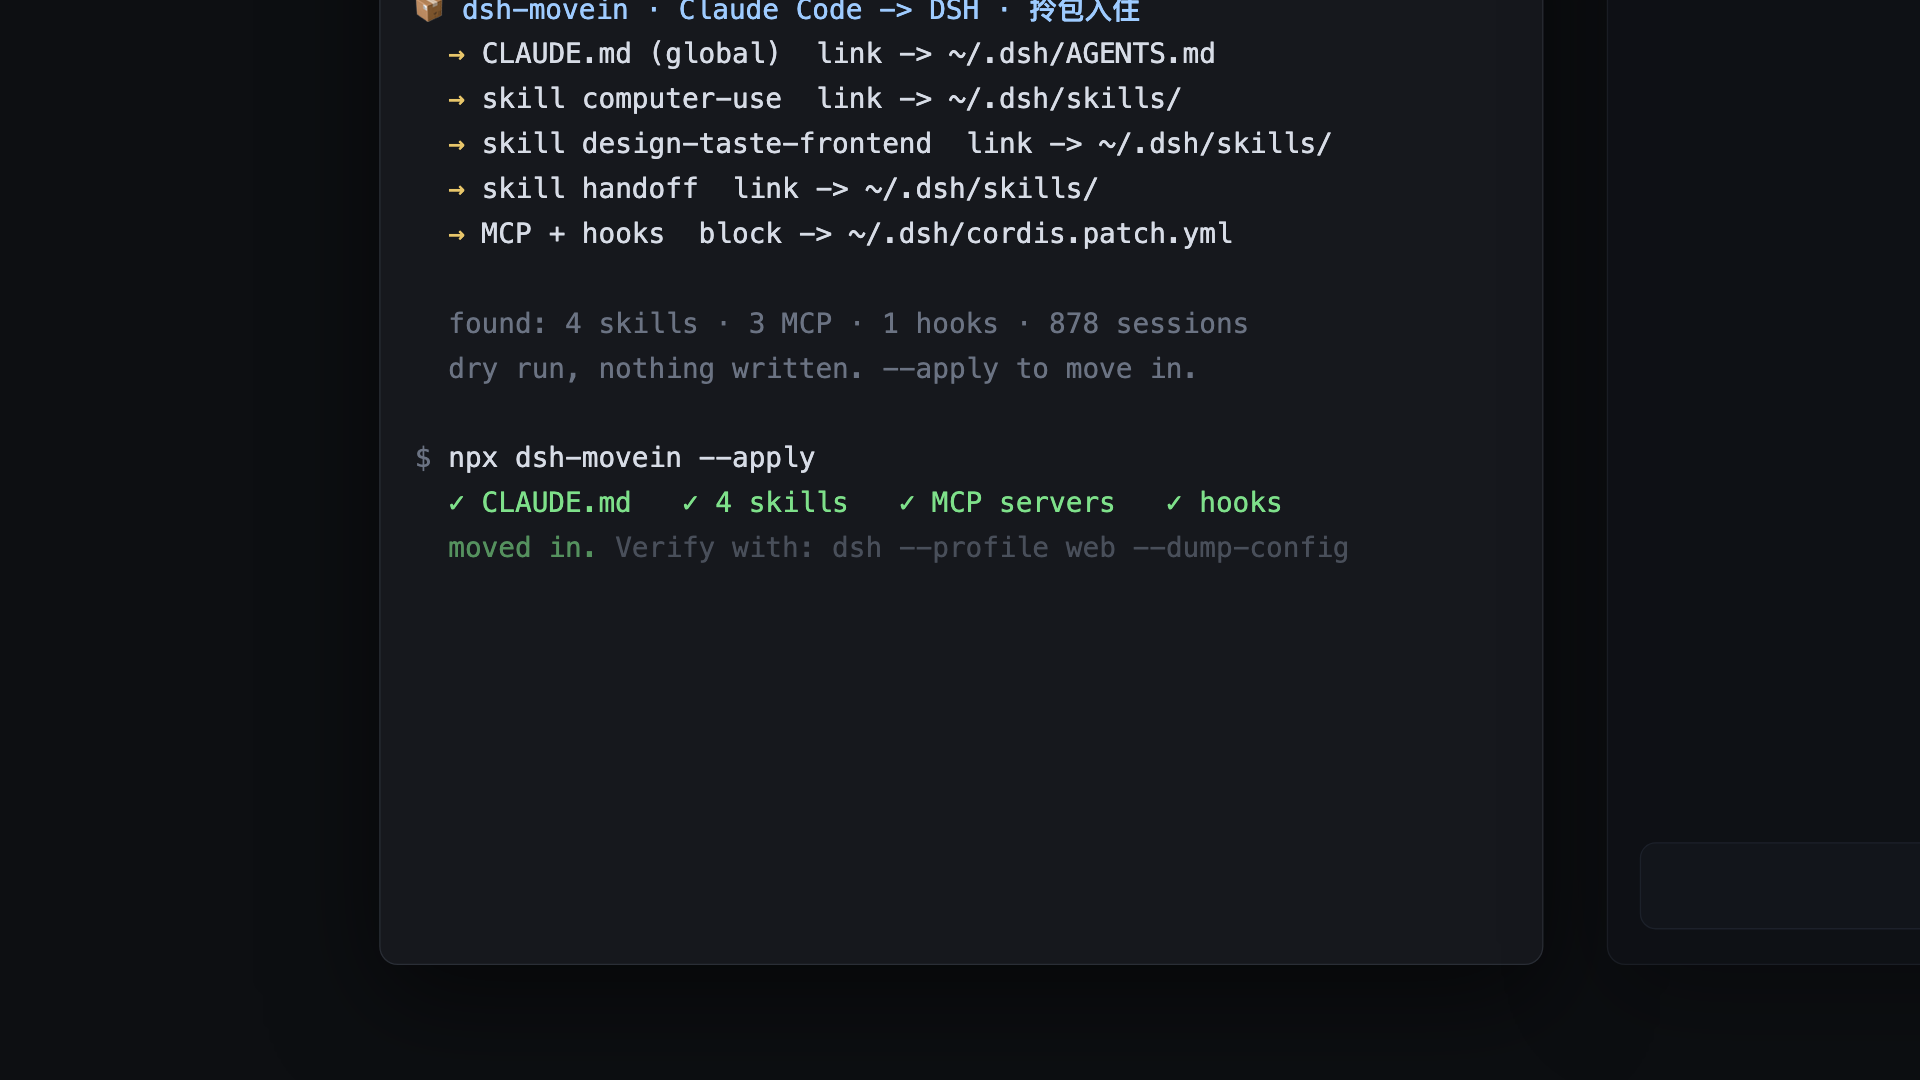
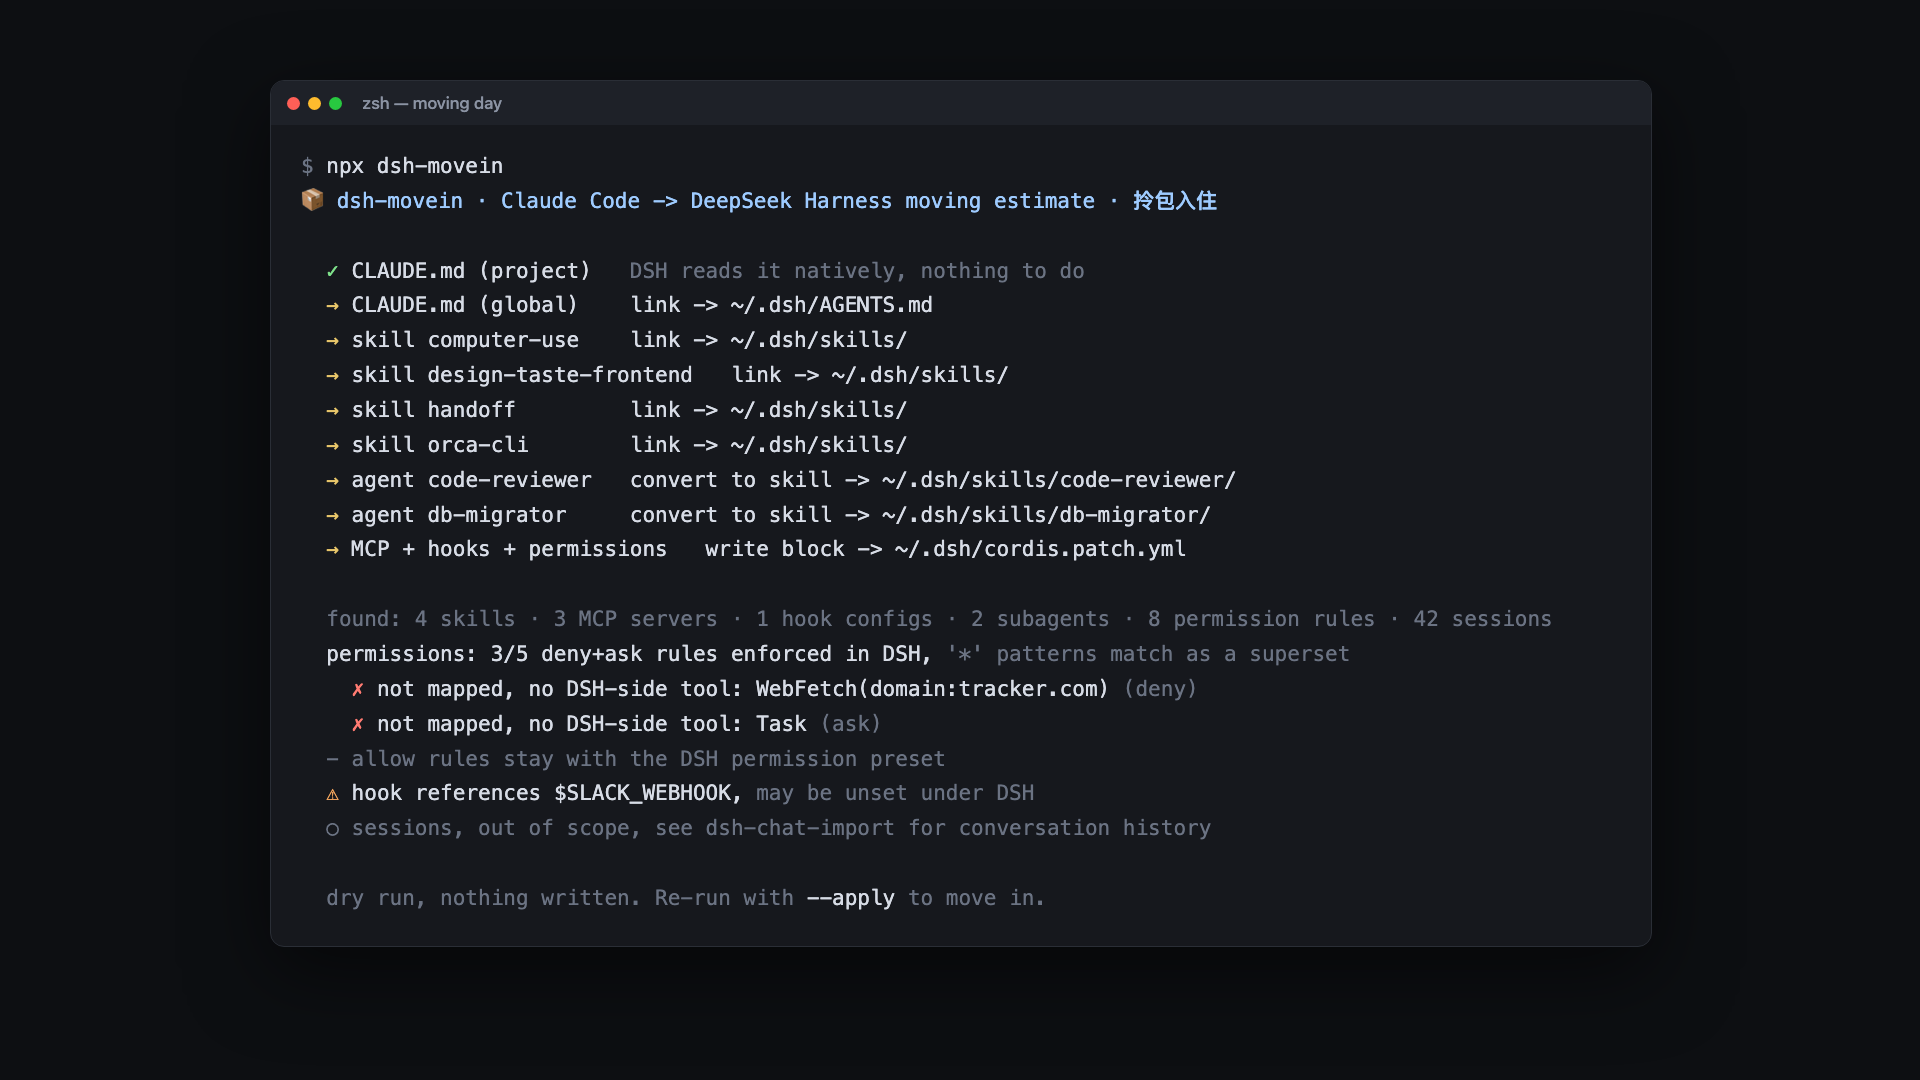
Rich v0.3.2 report still for gallery use

diff --git a/demo/still.html b/demo/still.html
@@ -1,0 +1,45 @@
+<!doctype html>
+<html><head><meta charset="utf-8"><style>
+  html,body{width:1920px;height:1080px;overflow:hidden;background:#0d0f12;margin:0}
+  .win{position:absolute;left:270px;top:80px;width:1380px;border-radius:14px;box-shadow:0 24px 80px rgba(0,0,0,.55);overflow:hidden;background:#16181d;border:1px solid #2a2e36}
+  .tbar{height:44px;background:#1e2128;display:flex;align-items:center;padding:0 16px;gap:8px}
+  .dot{width:13px;height:13px;border-radius:50%}
+  .ti{margin-left:12px;color:#8b93a3;font:500 17px ui-sans-serif,system-ui}
+  #tbody{padding:24px 30px 30px;font:500 21px/1.66 ui-monospace,Menlo,Monaco,monospace;color:#d7dce6;white-space:pre-wrap}
+  .dim{color:#6b7383}.grn{color:#7ee08a}.arw{color:#e8c66a}.hdr{color:#9ecbff}.red{color:#ff7b72}.org{color:#f0a45d}
+</style></head>
+<body>
+<div class="win">
+  <div class="tbar">
+    <div class="dot" style="background:#ff5f57"></div><div class="dot" style="background:#febc2e"></div><div class="dot" style="background:#28c840"></div>
+    <div class="ti">zsh — moving day</div>
+  </div>
+  <div id="tbody"><span class="dim">$ </span>npx dsh-movein
+<span class="hdr">📦 dsh-movein · Claude Code -> DeepSeek Harness moving estimate · 拎包入住</span>
+
+  <span class="grn">✓</span> CLAUDE.md (project)   <span class="dim">DSH reads it natively, nothing to do</span>
+  <span class="arw">→</span> CLAUDE.md (global)    link -> ~/.dsh/AGENTS.md
+  <span class="arw">→</span> skill computer-use    link -> ~/.dsh/skills/
+  <span class="arw">→</span> skill design-taste-frontend   link -> ~/.dsh/skills/
+  <span class="arw">→</span> skill handoff         link -> ~/.dsh/skills/
+  <span class="arw">→</span> skill orca-cli        link -> ~/.dsh/skills/
+  <span class="arw">→</span> agent code-reviewer   convert to skill -> ~/.dsh/skills/code-reviewer/
+  <span class="arw">→</span> agent db-migrator     convert to skill -> ~/.dsh/skills/db-migrator/
+  <span class="arw">→</span> MCP + hooks + permissions   write block -> ~/.dsh/cordis.patch.yml
+
+  <span class="dim">found: 4 skills · 3 MCP servers · 1 hook configs · 2 subagents · 8 permission rules · 42 sessions</span>
+  permissions: 3/5 deny+ask rules enforced in DSH, <span class="dim">'*' patterns match as a superset</span>
+    <span class="red">✗</span> not mapped, no DSH-side tool: WebFetch(domain:tracker.com) <span class="dim">(deny)</span>
+    <span class="red">✗</span> not mapped, no DSH-side tool: Task <span class="dim">(ask)</span>
+  <span class="dim">− allow rules stay with the DSH permission preset</span>
+  <span class="org">⚠</span> hook references $SLACK_WEBHOOK, <span class="dim">may be unset under DSH</span>
+  <span class="dim">○ sessions, out of scope, see dsh-chat-import for conversation history</span>
+
+  <span class="dim">dry run, nothing written. Re-run with</span> --apply <span class="dim">to move in.</span></div>
+</div>
+<script>
+window.DURATION=0;
+window.seek=()=>{};
+window.ready=(async()=>{await document.fonts.ready;})();
+</script>
+</body></html>
